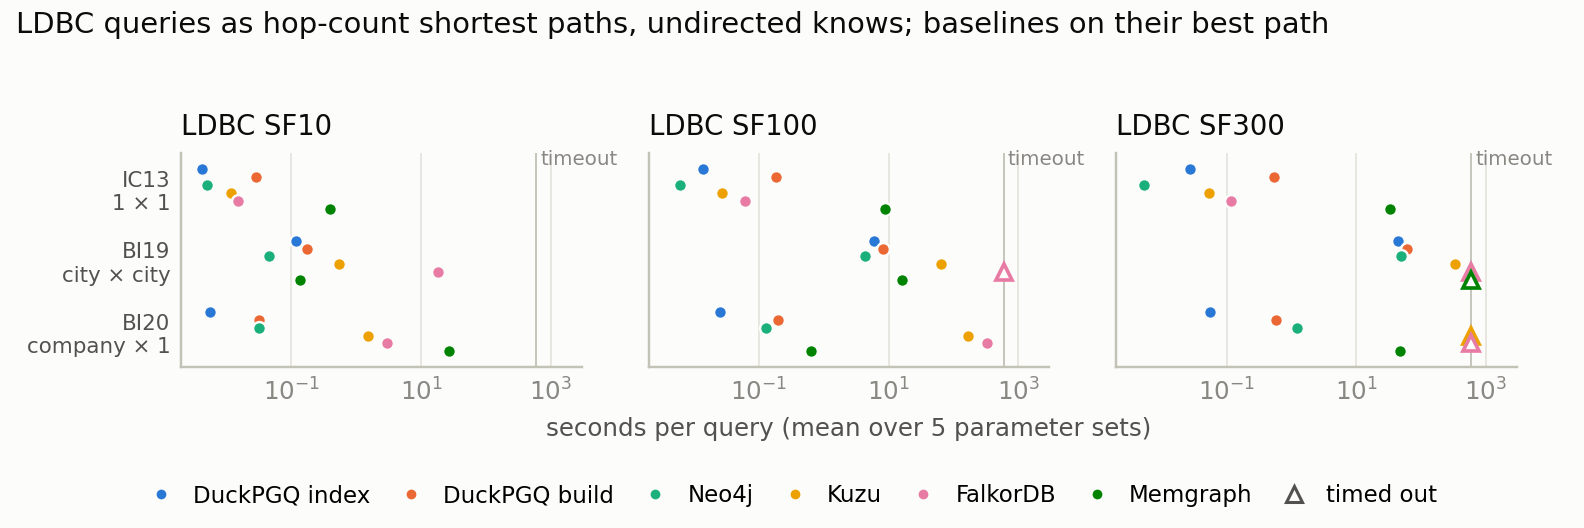
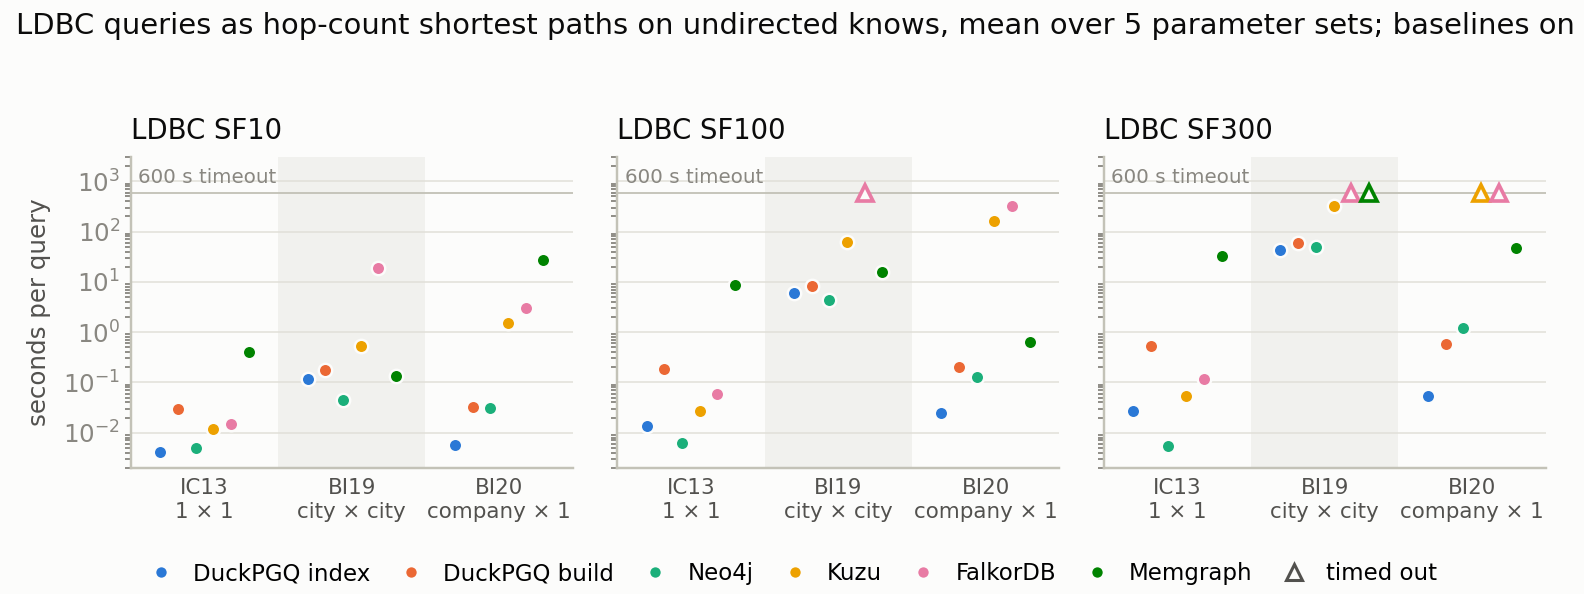
Figures: LDBC panel with queries on the x axis, seconds on the y axis, shaded bands per query

diff --git a/scripts/plot_sweep_results.py b/scripts/plot_sweep_results.py
@@ -176,14 +176,18 @@ def sweep_figure(shape, xlabel, filename, title):
 
 def ldbc_figure(filename):
     queries = [("ic13", "IC13\n1 × 1"), ("bi19", "BI19\ncity × city"), ("bi20", "BI20\ncompany × 1")]
-    fig, axes = plt.subplots(1, 3, figsize=(7.2, 2.4), sharey=True)
+    fig, axes = plt.subplots(1, 3, figsize=(7.2, 2.7), sharey=True)
+    offsets = {system: (i - (len(SYSTEMS) - 1) / 2) * 0.12 for i, (system, _, _) in enumerate(SYSTEMS)}
     for ax, sf in zip(axes, SCALE_FACTORS):
         points = load("ldbc_queries", sf)
-        ax.set_xscale("log")
-        ax.axvline(BUDGET_S, color=AXIS, linewidth=0.6)
-        ax.text(BUDGET_S * 1.15, -0.42, "timeout", color=MUTED, fontsize=6.5, ha="left", va="center")
-        offsets = {system: (i - (len(SYSTEMS) - 1) / 2) * 0.11 for i, (system, _, _) in enumerate(SYSTEMS)}
-        for row, (query, _) in enumerate(queries):
+        ax.set_yscale("log")
+        # One band per query so the groups read as separate columns
+        for column in range(len(queries)):
+            if column % 2 == 1:
+                ax.axvspan(column - 0.5, column + 0.5, color="#f1f1ee", zorder=0, linewidth=0)
+        ax.axhline(BUDGET_S, color=AXIS, linewidth=0.6, zorder=1)
+        ax.text(-0.45, BUDGET_S * 1.3, "600 s timeout", color=MUTED, fontsize=6.5, va="bottom", ha="left")
+        for column, (query, _) in enumerate(queries):
             for system, name, color in SYSTEMS:
                 params = sorted({k[2] for k in points if k[1] == query and k[0] in (system, f"{system}@32")})
                 values, exceeded = [], False
@@ -195,29 +199,28 @@ def ldbc_figure(filename):
                         values.append(point["mean"])
                     elif point["status"] == "exceeded":
                         exceeded = True
-                y = row + offsets[system]
+                x = column + offsets[system]
                 if values and not exceeded:
-                    ax.plot([statistics.mean(values)], [y], marker="o", markersize=4.2, color=color, linestyle="none",
+                    ax.plot([x], [statistics.mean(values)], marker="o", markersize=4.4, color=color, linestyle="none",
                             markeredgecolor=SURFACE, markeredgewidth=0.8, zorder=3)
                 elif exceeded:
-                    ax.plot([BUDGET_S], [y], marker="^", markersize=5, linestyle="none", markerfacecolor=SURFACE,
+                    ax.plot([x], [BUDGET_S], marker="^", markersize=5.5, linestyle="none", markerfacecolor=SURFACE,
                             markeredgecolor=color, markeredgewidth=1.2, zorder=3)
-        ax.set_yticks(range(len(queries)))
-        ax.set_yticklabels([label for _, label in queries], fontsize=7, color=INK2)
-        ax.set_ylim(-0.5, len(queries) - 0.5)
-        ax.invert_yaxis()
-        ax.set_xlim(0.002, 3000)
+        ax.set_xticks(range(len(queries)))
+        ax.set_xticklabels([label for _, label in queries], fontsize=7, color=INK2)
+        ax.set_xlim(-0.5, len(queries) - 0.5)
+        ax.set_ylim(0.002, 3000)
         ax.set_title(f"LDBC SF{sf}", loc="left")
-        ax.grid(axis="y", visible=False)
+        ax.grid(axis="x", visible=False)
         style_axes(ax)
-    axes[1].set_xlabel("seconds per query (mean over 5 parameter sets)")
-    handles = [Line2D([], [], linestyle="none", marker="o", markersize=4.2, color=c, markeredgecolor=SURFACE) for _, _, c in SYSTEMS]
-    handles.append(Line2D([], [], linestyle="none", marker="^", markersize=5, markerfacecolor=SURFACE, markeredgecolor=INK2))
+    axes[0].set_ylabel("seconds per query")
+    handles = [Line2D([], [], linestyle="none", marker="o", markersize=4.4, color=c, markeredgecolor=SURFACE) for _, _, c in SYSTEMS]
+    handles.append(Line2D([], [], linestyle="none", marker="^", markersize=5.5, markerfacecolor=SURFACE, markeredgecolor=INK2))
     labels = [n for _, n, _ in SYSTEMS] + ["timed out"]
-    fig.legend(handles, labels, loc="lower center", ncol=7, bbox_to_anchor=(0.5, 0.0), handlelength=1.2, columnspacing=1.2)
-    fig.suptitle("LDBC queries as hop-count shortest paths, undirected knows; baselines on their best path",
+    fig.legend(handles, labels, loc="lower center", ncol=7, bbox_to_anchor=(0.5, -0.02), handlelength=1.2, columnspacing=1.2)
+    fig.suptitle("LDBC queries as hop-count shortest paths on undirected knows, mean over 5 parameter sets; baselines on their best path",
                  x=0.01, ha="left", fontsize=9.5, color=INK)
-    fig.tight_layout(rect=(0, 0.1, 1, 0.94))
+    fig.tight_layout(rect=(0, 0.07, 1, 0.94))
     save(fig, filename)
 
 
